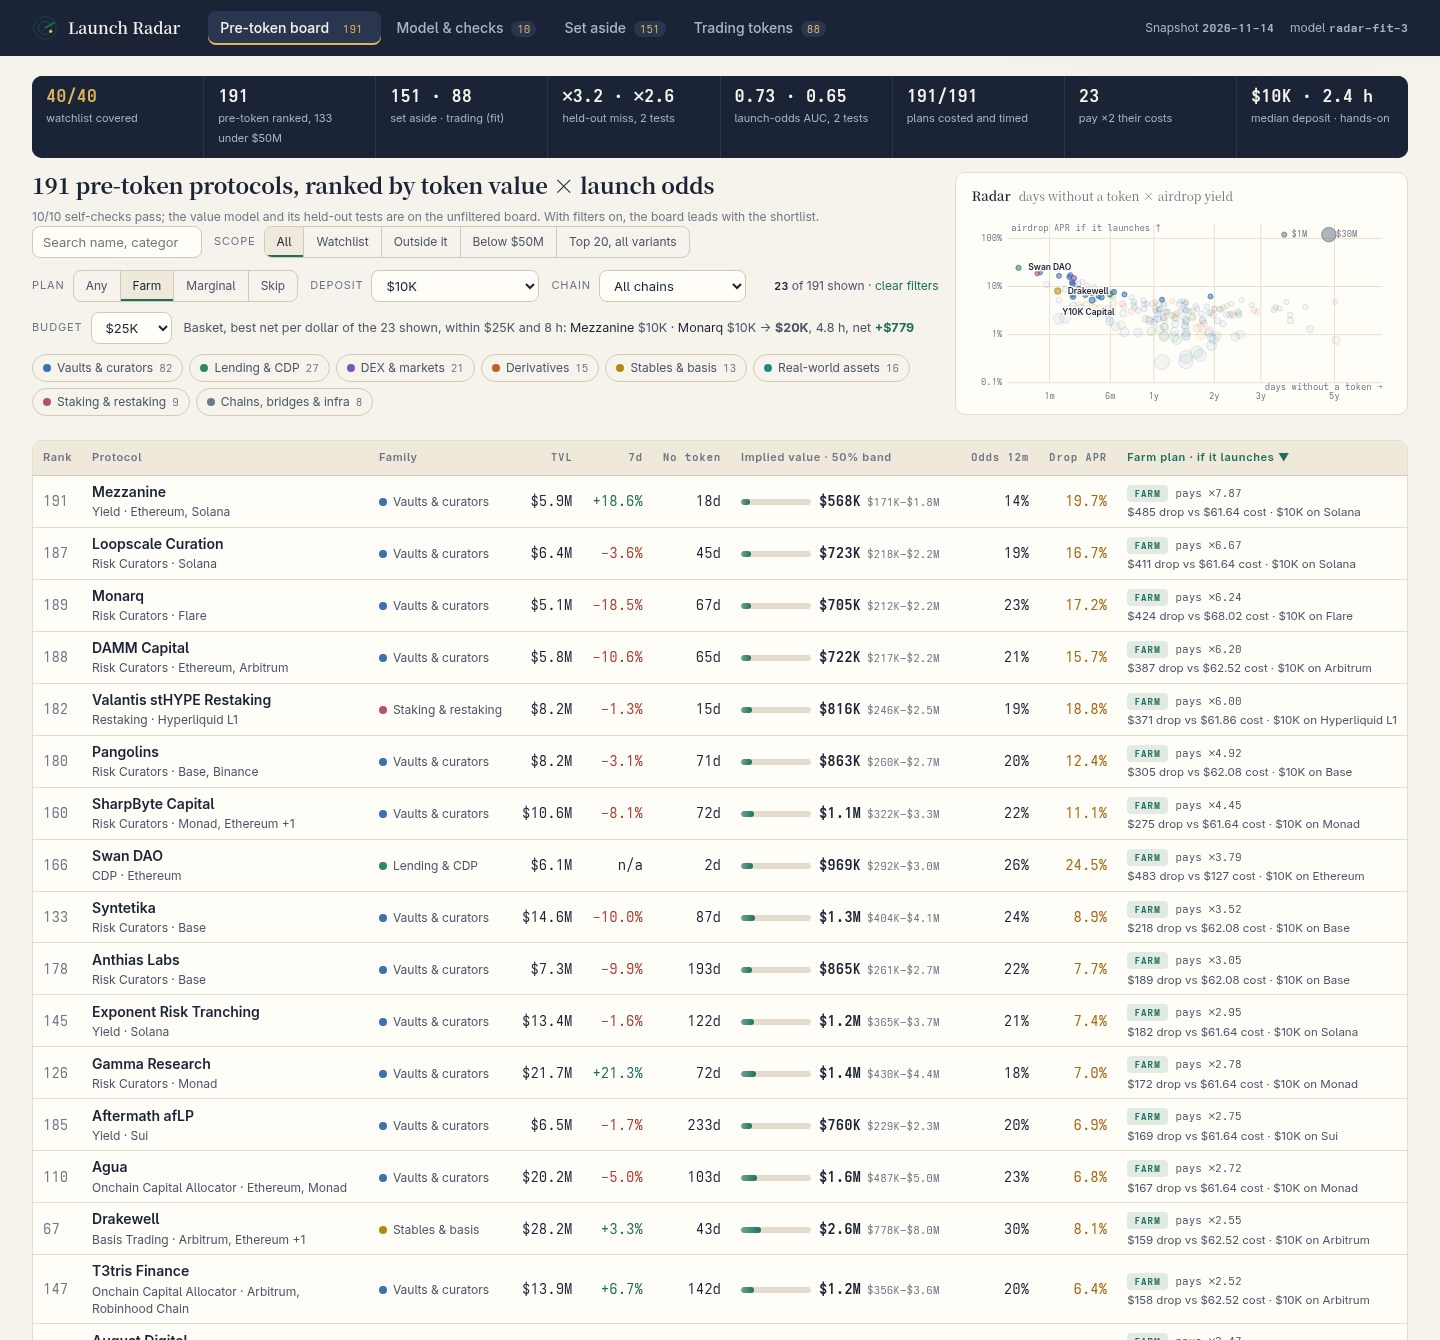
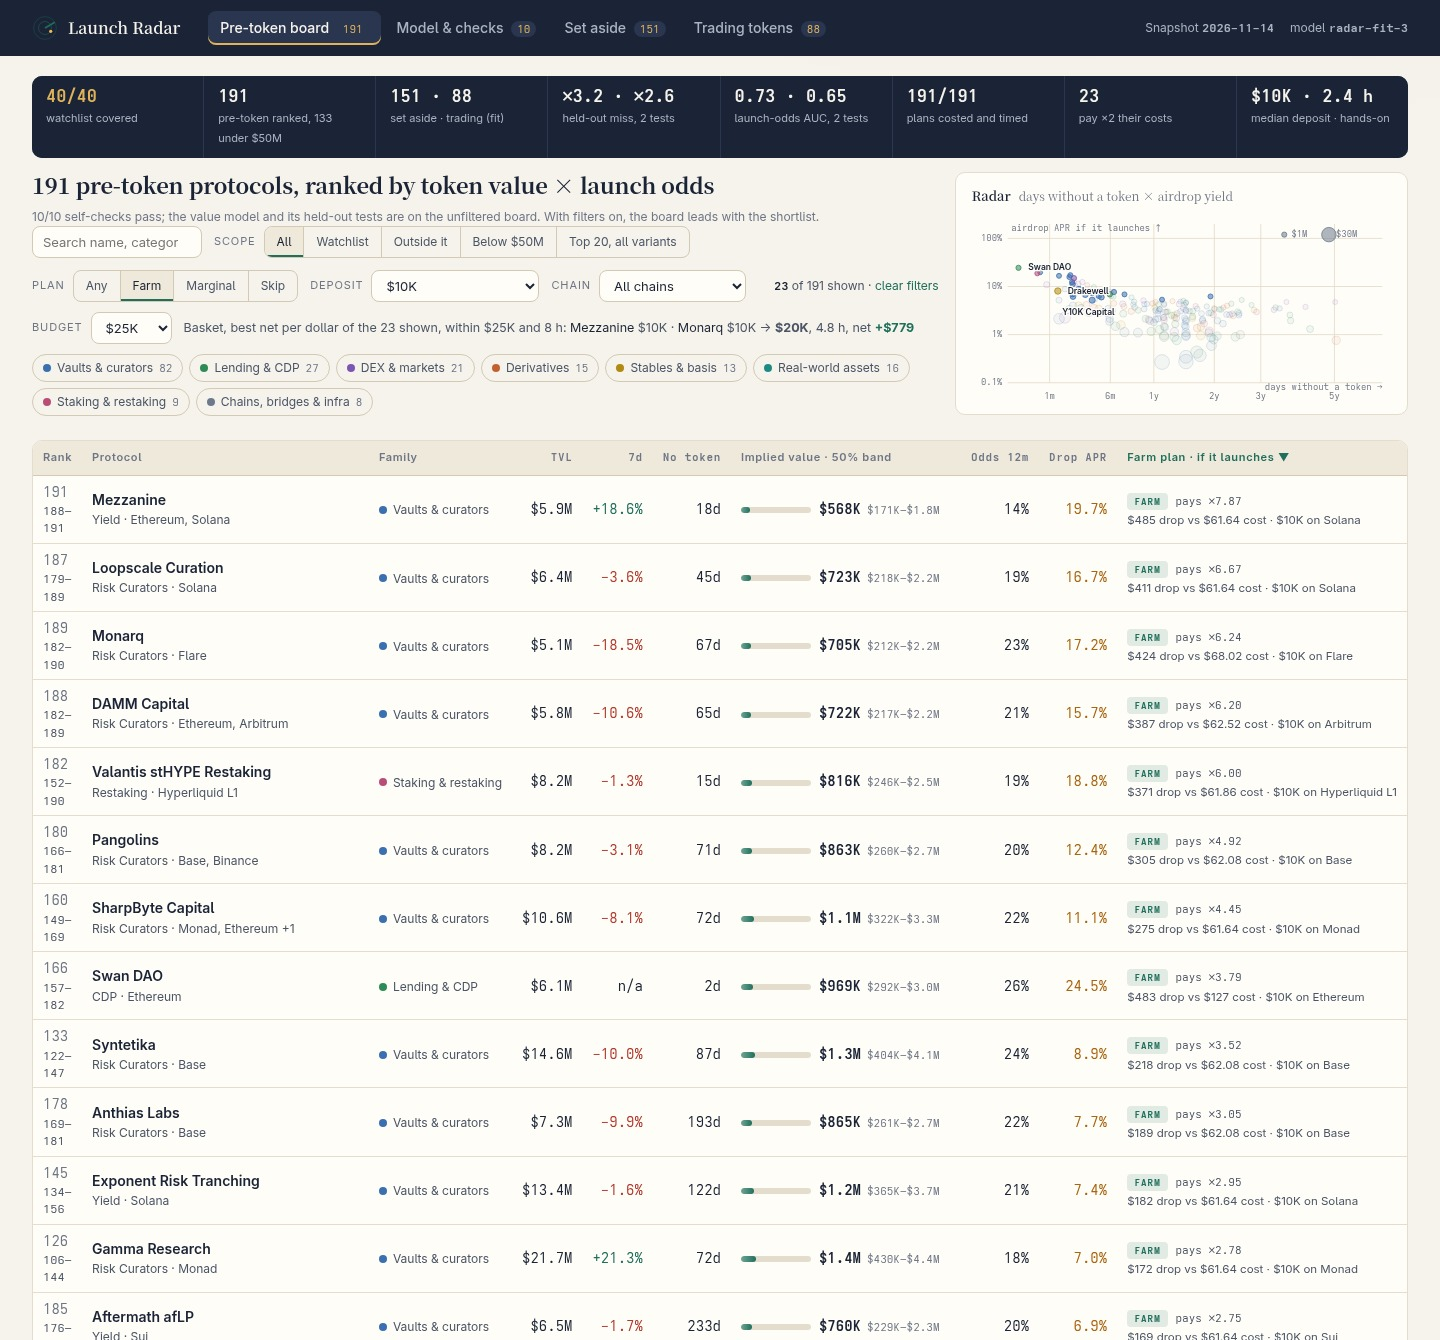
Inline bootstrap rank ranges: each row shows its 80% rank range over 40 refits of curve and odds

diff --git a/dashboard/app.js b/dashboard/app.js
@@ -173,7 +173,7 @@
     const body = shown.map((r) => {
       const w = Math.max(1.5, 100 * Math.sqrt(r.v.implied / maxImplied));
       return `<tr data-slug="${esc(r.p.slug)}" tabindex="0">
-        <td class="rank">${r.rank}</td>
+        <td class="rank">${r.rank}<small>${r.rlo}–${r.rhi}</small></td>
         <td class="proto"><a href="${link({ p: r.p.slug })}">${esc(r.p.name)}</a>${r.watch ? '<span class="wl" title="On the snapshot watchlist">WL</span>' : ''}<small>${esc(r.p.category || 'Uncategorised')} · ${esc(r.p.chains.slice(0, 2).join(', '))}${r.p.chains.length > 2 ? ' +' + (r.p.chains.length - 2) : ''}</small></td>
         <td>${famChip(r.v.family)}</td>
         <td class="num">${usd(r.p.tvl_usd)}</td>
@@ -235,7 +235,7 @@
       <div><h1>${esc(p.name)}</h1>
         <p class="tags">${famChip(v.family)}<span class="tag">${esc(p.category || 'Uncategorised')}</span><span class="tag pre">No token on record</span>${r.watch ? '<span class="tag wlt">On the watchlist</span>' : '<span class="tag">Outside the watchlist</span>'}</p>
         <p class="sub">${esc(p.chains.join(' · '))}${p.listed_at ? ` — tracked since ${esc(p.listed_at)}` : ' — no listing date on record'}</p></div>
-      <div class="dval"><small>Implied token value</small><b>${usd(v.implied)}</b><small>50% band ${usd(v.low)} – ${usd(v.high)} · ${mult(v.multiple)} TVL</small><small>Top 20 in ${pc(r.boot)} of 40 bootstrap refits</small><small>Rank #${r.rank}; ${Object.keys(r.alt).map((k) => `#${r.alt[k]} ${k}`).join(' · ')}</small></div>
+      <div class="dval"><small>Implied token value</small><b>${usd(v.implied)}</b><small>50% band ${usd(v.low)} – ${usd(v.high)} · ${mult(v.multiple)} TVL</small><small>Rank ${r.rlo}–${r.rhi} in 80% of 40 bootstrap refits; top 20 in ${pc(r.boot)}</small><small>Rank #${r.rank}; ${Object.keys(r.alt).map((k) => `#${r.alt[k]} ${k}`).join(' · ')}</small></div>
     </section>
     <div class="dgrid">
       <div class="col">

diff --git a/dashboard/model.js b/dashboard/model.js
@@ -346,15 +346,17 @@
     // Bootstrap: refit the value curve on resampled trading tokens and the launch odds on resampled peers,
     // 40 seeded draws (every run agrees), and count how often each row ranks in the top 20.
     var seed = 7, rnd = function () { seed = (seed * 16807) % 2147483647; return seed / 2147483647; };
-    rows.forEach(function (r) { r.boot = 0; });
+    rows.forEach(function (r) { r.boot = 0; r.draws = []; });
     for (var d = 0; d < 40; d++) {
       var bs = fit.points.map(function () { return fit.points[Math.floor(rnd() * fit.points.length)]; }), bf = fitPoints(bs, fit.k), Fb = fit.odds.boot(rnd);
       rows.map(function (r) {
         var a = r.v.age_used, f0 = Fb(r.p, a), qb = (Fb(r.p, a + M.odds_days) - f0) / (1 - f0);
         return { r: r, s: r.v.tvl_next * Math.exp(bf.fams[r.v.family].ln + bf.b * Math.log(r.v.tvl_next / M.ref_tvl)) * qb };
       })
-        .sort(function (a, b) { return b.s - a.s || bySlug(a.r.p, b.r.p); }).slice(0, 20).forEach(function (o) { o.r.boot += 1 / 40; });
+        .sort(function (a, b) { return b.s - a.s || bySlug(a.r.p, b.r.p); }).forEach(function (o, i) { o.r.draws.push(i + 1); if (i < 20) o.r.boot += 1 / 40; });
     }
+    // Each row's 80% rank range over the 40 refits (5th lowest to 5th highest rank).
+    rows.forEach(function (r) { var d = r.draws.sort(function (a, b) { return a - b; }); r.rlo = d[4]; r.rhi = d[35]; delete r.draws; });
     rows.forEach(function (r) { r.stable = r.rank <= 20 && Object.keys(r.alt).every(function (k) { return r.alt[k] <= 20; }); });
     var live = fit.points.map(function (q) { return { p: q.p, tvl: q.tvl, members: q.members, family: q.f, fit: q.fit, loo: Math.round(q.loo), actual: q.mcap }; })
       .sort(function (a, b) { return b.actual - a.actual || bySlug(a.p, b.p); });
